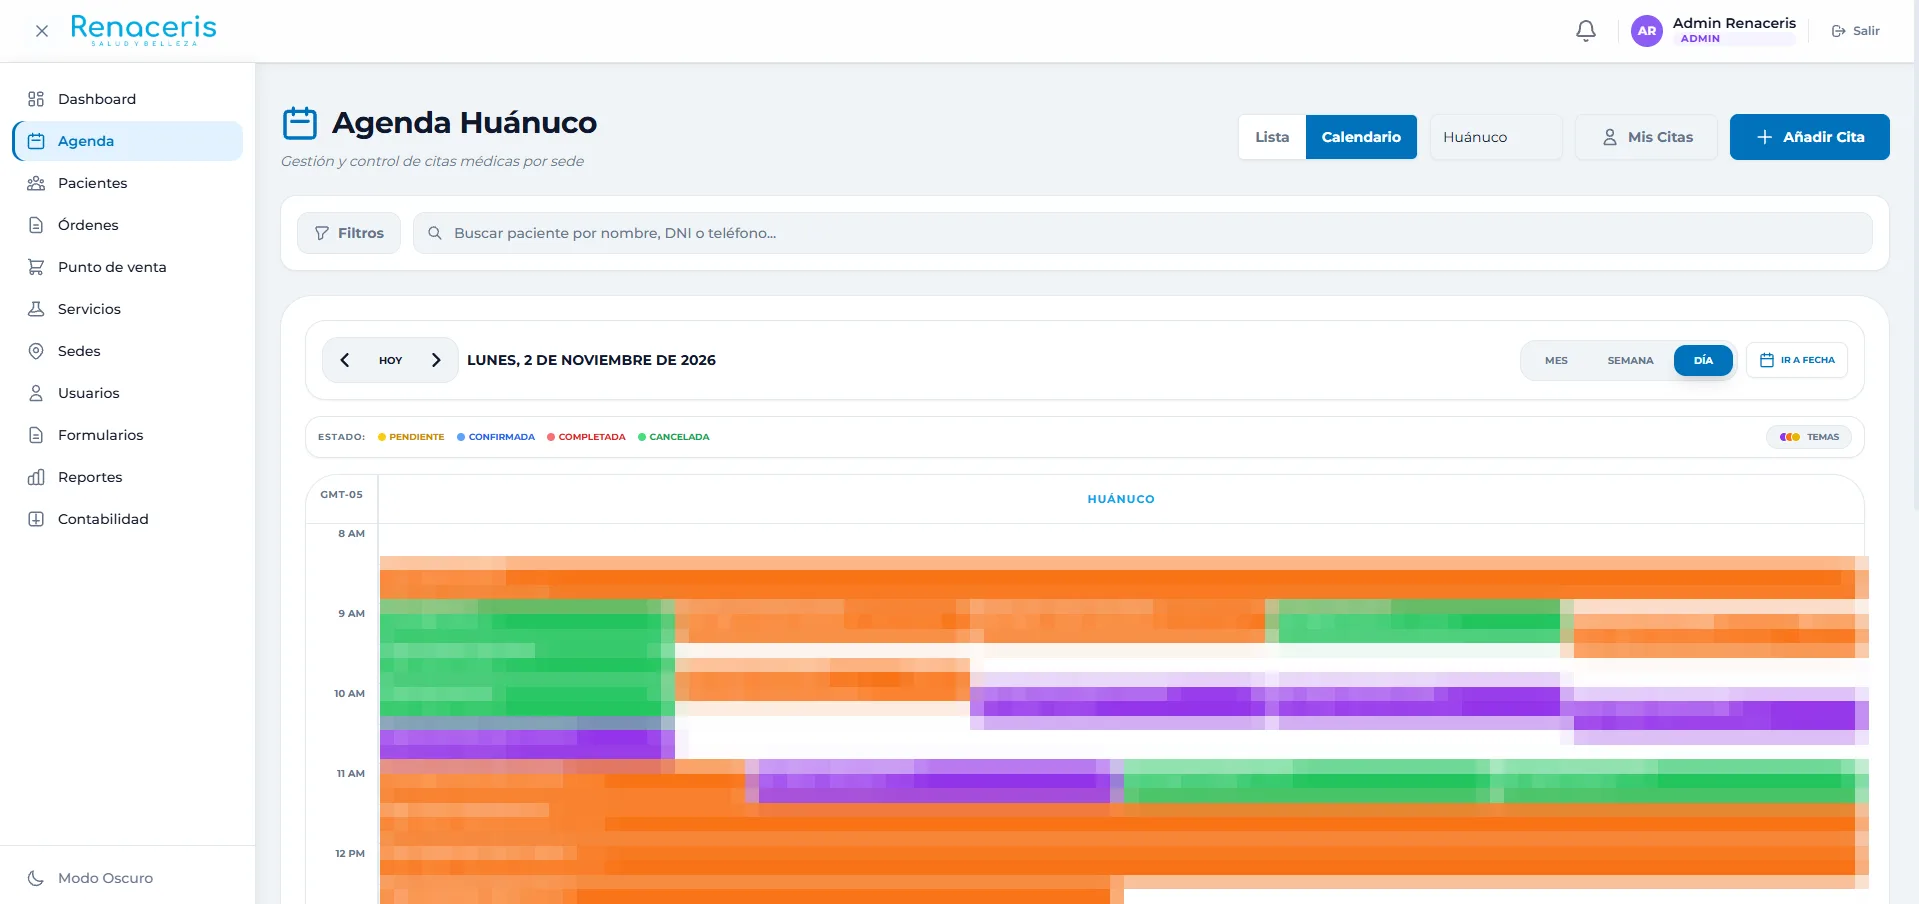
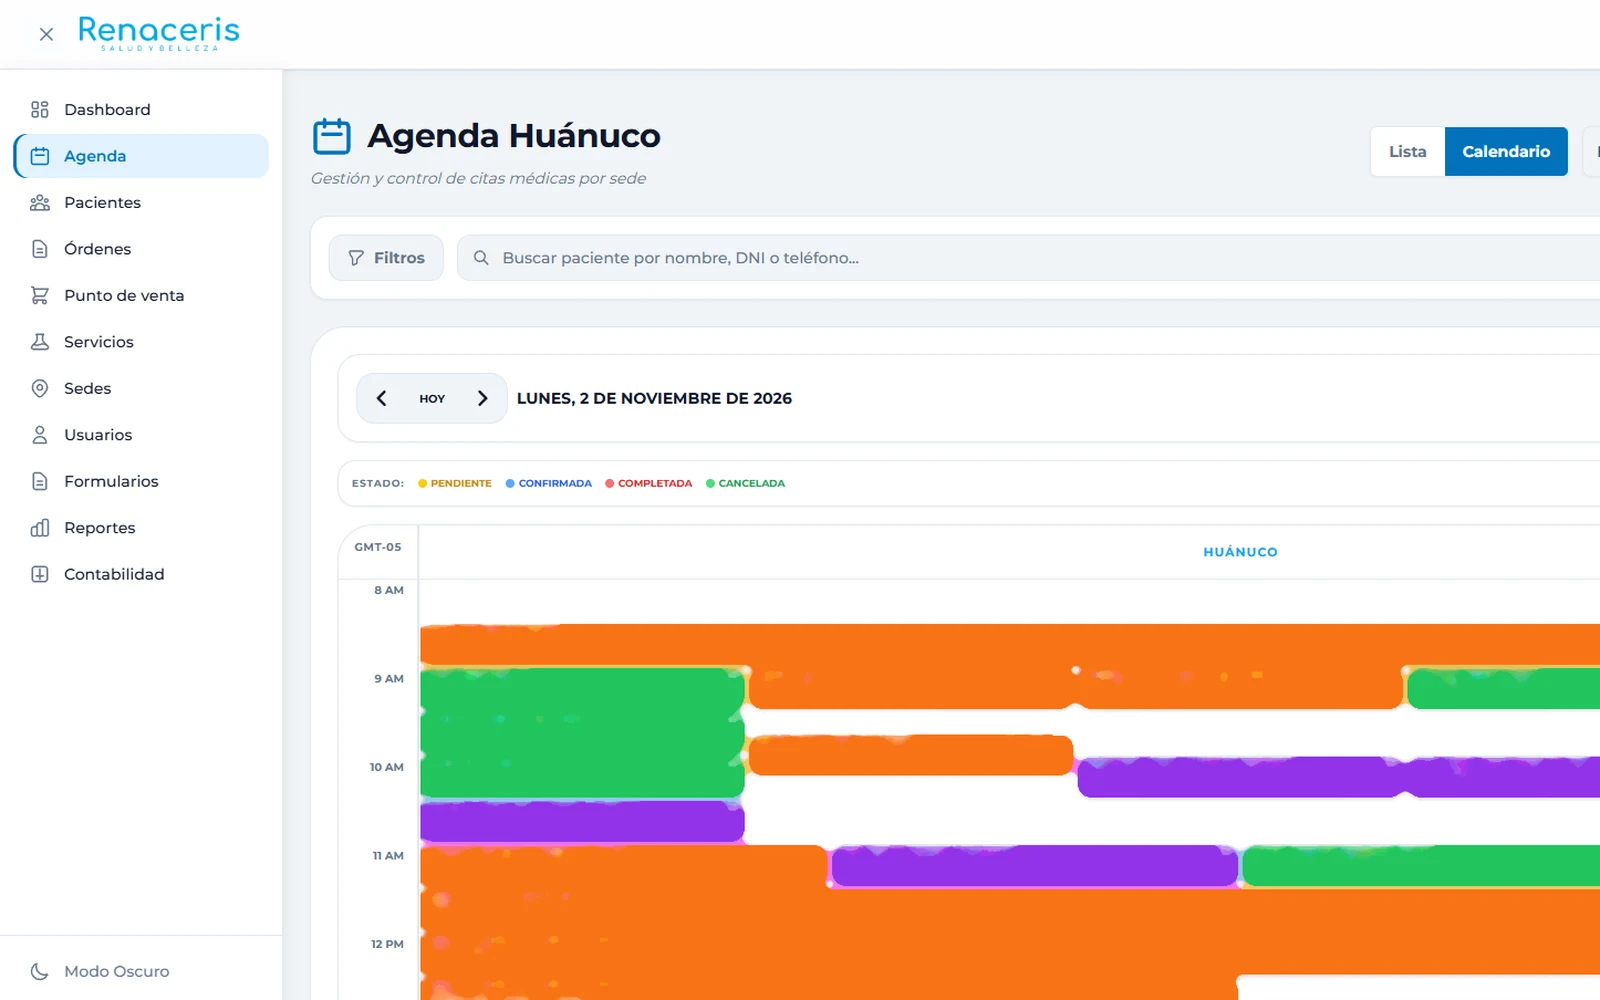
fix: imagen de Renaceris Plataforma sin recorte, texto de pacientes borrado y a color
Claude-Session: https://claude.ai/code/session_01VbRFqNYfdNqFR6via55KB3

diff --git a/src/components/Projects.tsx b/src/components/Projects.tsx
@@ -12,6 +12,7 @@ interface Project {
   primaryLanguage?: string;
   image: string;
   viewnow?: boolean;
+  fullColor?: boolean; // sin filtro en blanco y negro
   links: {
     live?: string;
     github?: string;
@@ -33,7 +34,7 @@ const ProjectRow = ({ project, index }: { project: Project; index: number }) => 
             src={project.image}
             alt={`Captura de ${project.title}`}
             loading="lazy"
-            className="photo w-full h-full object-cover group-hover:scale-105"
+            className={`${project.fullColor ? '' : 'photo'} w-full h-full object-cover transition-transform duration-700 group-hover:scale-105`}
           />
         </div>
         <div className={`absolute -bottom-3 ${flip ? '-left-3' : '-right-3'} w-1/2 h-5 bg-violet origin-left scale-x-0 group-hover:scale-x-100 transition-transform duration-500`} />
@@ -147,6 +148,7 @@ const Projects = () => {
       period: "Ene - Abr 2026",
       technologies: ["React", "NestJS", "TypeScript", "Tailwind", "Supabase"],
       image: "/images/renaceris_plataforma.webp",
+      fullColor: true,
       links: {}
     },
   ] : [
@@ -205,6 +207,7 @@ const Projects = () => {
       period: "Jan - Apr 2026",
       technologies: ["React", "NestJS", "TypeScript", "Tailwind", "Supabase"],
       image: "/images/renaceris_plataforma.webp",
+      fullColor: true,
       links: {}
     },
   ];
